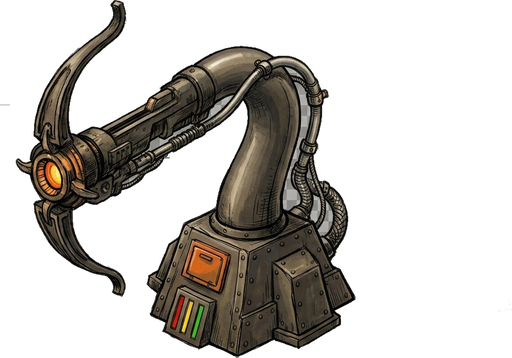
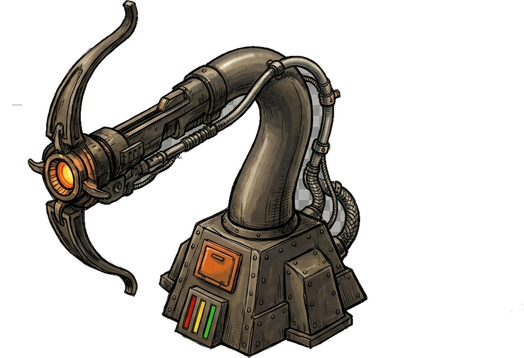
Make the turret a charging laser; halve size; centre the base
Gameplay/feel changes to the Laser Turret:
- Fires a hitscan LASER beam instead of a homing bolt.
- Charges for 1.5s before each shot, shown by a growing glow at the muzzle
  (charge bleeds back down if it loses the target). Stronger per hit (50 dmg)
  to suit the slower cadence.
- Half the on-screen size (artHeight 150 -> 75).
- Base is now exactly centred on the tile: the art was re-padded so the base
  sits at originX 0.5, and the muzzle is stored as size-fractions so it tracks
  the barrel tip at any scale.

Implementation:
- towers.js: weapon/chargeTime/damage/laserColor + art origin/muzzle data.
- Tower entity: charge model with growing muzzle glow, target-facing flip, and
  muzzle-anchored firing; recoil now scales relative to the art's base scale.
- GameScene: weapon routing + a hitscan laser that applies damage immediately
  and draws a beam. The beam is rendered as stretched additive SPRITES (a
  white-hot core + coloured glow), NOT runtime Graphics — Graphics lines drop
  out of the WebGL batch when a particle emitter is created the same frame.
- textures.js: generate a reusable 'laser-beam' strip texture.
- AudioManager: rising charge hum + sharp beam discharge cues.

Verified served over HTTP: charge glow builds, beams fire and render in
gameplay (10 fired in a run), damage applies, and the full win/lose loop
still passes with no console errors.

Changed region(s): [[0.0312, 0.0, 0.7188, 1.0], [0.0, 0.2765, 0.0312, 0.3073]]

diff --git a/src/entities/Tower.js b/src/entities/Tower.js
@@ -1,15 +1,18 @@
 // ---------------------------------------------------------------------------
-// Tower entity. Sits on a grid cell, acquires the nearest in-range enemy and
-// fires projectiles on a cooldown. Targeting is delegated to TargetingSystem so
-// the selection policy can evolve independently of the entity.
+// Tower entity. Sits on a grid cell, acquires the best in-range enemy and
+// fires on a cadence. Targeting is delegated to TargetingSystem.
 //
-// Rendering is data-driven: a tower's `textureKey` is whatever the data points
-// at (a generated placeholder, or a real PNG). Optional art fields in the data
-// (artHeight / originX / originY / facing / muzzle) control how that texture is
-// scaled, anchored and aimed — so dropping in new drawings needs no code here.
+// Two firing models, chosen by data:
+//   - charge (def.chargeTime): builds a growing muzzle glow over chargeTime ms,
+//     then fires (used by the laser turret). Charge decays if no target.
+//   - instant (def.fireRate): classic cooldown firing.
 //
-// fire() pushes a Projectile into the scene's projectile array (passed in via
-// the firing callback) so the scene stays the single owner of entity lists.
+// The tower doesn't know laser vs projectile — it just calls the `fire`
+// callback with (def, muzzleX, muzzleY, target); the scene routes it to the
+// right weapon and stays the owner of all entities.
+//
+// Rendering is data-driven (textureKey / artHeight / origin / facing / muzzle),
+// so new drawings drop in without code changes.
 // ---------------------------------------------------------------------------
 
 import { DEPTH } from '../data/game.js';
@@ -24,12 +27,15 @@ export class Tower extends Phaser.GameObjects.Container {
     this.cell = cell;
     this.rangePx = rangePx;
     this.cooldown = 0;
+    this.charge = 0;
+    this.faceRight = false;
+    this.glow = null;
     this.defaultLeft = (def.facing ?? 'left') === 'left';
 
     this.sprite = scene.add.sprite(0, 0, def.textureKey);
     this.sprite.setOrigin(def.originX ?? 0.5, def.originY ?? 0.92);
 
-    // Scale real art to a target on-screen height (placeholders stay at 1:1).
+    // Scale real art to a target on-screen height (placeholders stay 1:1).
     this.baseScale = def.artHeight ? def.artHeight / this.sprite.height : 1;
     this.sprite.setScale(this.baseScale);
     this.add(this.sprite);
@@ -51,51 +57,117 @@ export class Tower extends Phaser.GameObjects.Container {
     });
   }
 
-  // Visual recoil (relative to base scale) + a muzzle flash at the barrel tip.
-  playFireFx(muzzleX, muzzleY) {
+  // World position of the barrel tip, mirrored to the side we're facing.
+  muzzlePosition(faceRight) {
+    const m = this.def.muzzle;
+    let mx, my;
+    if (m && m.xFrac != null) {
+      mx = m.xFrac * this.sprite.displayWidth;
+      my = m.yFrac * this.sprite.displayHeight;
+    } else if (m) {
+      mx = m.x; my = m.y;
+    } else {
+      mx = 0; my = this.sprite.displayHeight * 0.55;
+    }
+    return { x: this.x + (faceRight ? mx : -mx), y: this.y - my };
+  }
+
+  aimAt(target) {
+    this.faceRight = target.x > this.x;
+    this.sprite.setFlipX(this.defaultLeft ? this.faceRight : !this.faceRight);
+  }
+
+  update(delta, enemies, fire, audio) {
+    if (this.def.chargeTime) this.updateCharge(delta, enemies, fire, audio);
+    else this.updateInstant(delta, enemies, fire, audio);
+  }
+
+  // --- charge model (laser) ---------------------------------------------
+  updateCharge(delta, enemies, fire, audio) {
+    const target = selectTarget(this, enemies, this.rangePx);
+    if (target) {
+      this.aimAt(target);
+      if (this.charge <= 0 && audio) audio.charge();
+      this.charge += delta;
+      this.updateGlow();
+      if (this.charge >= this.def.chargeTime) {
+        const m = this.muzzlePosition(this.faceRight);
+        fire(this.def, m.x, m.y, target);
+        this.fireFlash(m.x, m.y);
+        this.charge = 0;
+        this.hideGlow();
+      }
+    } else if (this.charge > 0) {
+      // Lost the target mid-charge: bleed the charge back down.
+      this.charge = Math.max(0, this.charge - delta * 2);
+      if (this.charge <= 0) this.hideGlow();
+      else this.updateGlow();
+    }
+  }
+
+  // --- instant model (classic cooldown) ---------------------------------
+  updateInstant(delta, enemies, fire, audio) {
+    this.cooldown -= delta;
+    if (this.cooldown > 0) return;
+    const target = selectTarget(this, enemies, this.rangePx);
+    if (!target) return;
+    this.cooldown = this.def.fireRate;
+    this.aimAt(target);
+    const m = this.muzzlePosition(this.faceRight);
+    fire(this.def, m.x, m.y, target);
+    this.fireFlash(m.x, m.y);
+    if (audio) audio.shoot();
+  }
+
+  // --- muzzle glow (charge feedback) ------------------------------------
+  ensureGlow() {
+    if (!this.glow) {
+      this.glow = this.scene.add.sprite(this.x, this.y, 'spark');
+      this.glow.setBlendMode(Phaser.BlendModes.ADD);
+      this.glow.setTint(this.def.laserColor ?? this.def.accent);
+      this.glow.setDepth(this.depth + DEPTH.effectBias);
+    }
+    this.glow.setVisible(true);
+  }
+
+  updateGlow() {
+    this.ensureGlow();
+    const m = this.muzzlePosition(this.faceRight);
+    const p = Phaser.Math.Clamp(this.charge / this.def.chargeTime, 0, 1);
+    this.glow.setPosition(m.x, m.y);
+    this.glow.setScale(0.3 + p * 2.1);
+    this.glow.setAlpha(0.2 + p * 0.8);
+    this.glow.angle += 5; // subtle shimmer
+  }
+
+  hideGlow() {
+    if (this.glow) this.glow.setVisible(false);
+  }
+
+  // Recoil + a bright flash at the muzzle when the shot goes off.
+  fireFlash(x, y) {
     this.scene.tweens.add({
       targets: this.sprite,
       scaleX: this.baseScale * 0.9,
       scaleY: this.baseScale * 1.08,
-      duration: 60,
+      duration: 70,
       yoyo: true,
       ease: 'Quad.easeOut',
     });
-    const flash = this.scene.add.sprite(muzzleX, muzzleY, 'spark');
-    flash.setTint(this.def.accent);
+    const flash = this.scene.add.sprite(x, y, 'spark');
+    flash.setTint(this.def.laserColor ?? this.def.accent);
     flash.setBlendMode(Phaser.BlendModes.ADD);
     flash.setDepth(this.depth + DEPTH.effectBias);
     this.scene.tweens.add({
       targets: flash,
-      scale: { from: 1.8, to: 0 },
-      duration: 150,
+      scale: { from: 3, to: 0 },
+      duration: 180,
       onComplete: () => flash.destroy(),
     });
   }
 
-  // World position of the barrel tip, mirrored to whichever side we're facing.
-  muzzlePosition(faceRight) {
-    const mx = this.def.muzzle?.x ?? 0;
-    const my = this.def.muzzle?.y ?? this.sprite.displayHeight * 0.55;
-    return { x: this.x + (faceRight ? mx : -mx), y: this.y - my };
-  }
-
-  update(delta, enemies, fireProjectile, audio) {
-    this.cooldown -= delta;
-    if (this.cooldown > 0) return;
-
-    const target = selectTarget(this, enemies, this.rangePx);
-    if (!target) return;
-
-    this.cooldown = this.def.fireRate;
-
-    // Aim: flip the sprite so the barrel points at the target.
-    const faceRight = target.x > this.x;
-    this.sprite.setFlipX(this.defaultLeft ? faceRight : !faceRight);
-
-    const muzzle = this.muzzlePosition(faceRight);
-    fireProjectile(this.def, muzzle.x, muzzle.y, target);
-    this.playFireFx(muzzle.x, muzzle.y);
-    if (audio) audio.shoot();
+  destroy(fromScene) {
+    if (this.glow) { this.glow.destroy(); this.glow = null; }
+    super.destroy(fromScene);
   }
 }

diff --git a/src/scenes/GameScene.js b/src/scenes/GameScene.js
@@ -226,11 +226,58 @@ export class GameScene extends Phaser.Scene {
     this.enemies.push(enemy);
   }
 
-  // --------------------------------------------------------- projectiles ----
+  // ------------------------------------------------------------- weapons ----
+
+  // Route a tower's shot to the right weapon (the tower is weapon-agnostic).
+  fireWeapon(def, x, y, target) {
+    if (def.weapon === 'laser') this.fireLaser(def, x, y, target);
+    else this.fireProjectile(def, x, y, target);
+  }
 
   fireProjectile(def, x, y, target) {
     const proj = new Projectile(this, x, y, def, target, this.audio);
     this.projectiles.push(proj);
+  }
+
+  // Hitscan laser: damage is applied immediately and a beam is drawn from the
+  // muzzle to the target, then fades.
+  fireLaser(def, x, y, target) {
+    if (!target || !target.alive) return;
+    const tx = target.x;
+    const ty = target.y - (target.body ? target.body.displayHeight * 0.45 : 20);
+    this.drawLaserBeam(x, y, tx, ty, def);
+    target.takeDamage(def.damage, this.audio);
+    this.audio.laser();
+  }
+
+  drawLaserBeam(x1, y1, x2, y2, def) {
+    const color = def.laserColor ?? def.accent ?? 0xffffff;
+    const depth = DEPTH.entityBase + Math.max(y1, y2) + DEPTH.effectBias;
+    const mx = (x1 + x2) / 2;
+    const my = (y1 + y2) / 2;
+    const dist = Math.hypot(x2 - x1, y2 - y1);
+    const angle = Math.atan2(y2 - y1, x2 - x1);
+
+    // Stretched additive sprites: a coloured glow + a white-hot core.
+    const glow = this.add.image(mx, my, 'laser-beam')
+      .setRotation(angle).setTint(color).setBlendMode(Phaser.BlendModes.ADD).setDepth(depth);
+    glow.setDisplaySize(dist, 22);
+    const core = this.add.image(mx, my, 'laser-beam')
+      .setRotation(angle).setBlendMode(Phaser.BlendModes.ADD).setDepth(depth + 1);
+    core.setDisplaySize(dist, 6);
+    this.tweens.add({
+      targets: [glow, core], alpha: 0, duration: 190, ease: 'Quad.easeOut',
+      onComplete: () => { glow.destroy(); core.destroy(); },
+    });
+
+    const hit = this.add.particles(x2, y2, 'spark', {
+      speed: { min: 50, max: 160 }, angle: { min: 0, max: 360 },
+      scale: { start: 0.8, end: 0 }, lifespan: 240, quantity: 8,
+      tint: [color, 0xffffff], blendMode: 'ADD', emitting: false,
+    });
+    hit.setDepth(depth + 2);
+    hit.explode();
+    this.time.delayedCall(280, () => hit.destroy());
   }
 
   // ---------------------------------------------------------------- waves ----
@@ -311,7 +358,7 @@ export class GameScene extends Phaser.Scene {
 
     // Towers.
     for (const t of this.towers) {
-      t.update(delta, this.enemies, (def, x, y, target) => this.fireProjectile(def, x, y, target), this.audio);
+      t.update(delta, this.enemies, (def, x, y, target) => this.fireWeapon(def, x, y, target), this.audio);
     }
 
     // Projectiles.

diff --git a/src/data/towers.js b/src/data/towers.js
@@ -29,12 +29,21 @@
 export const TOWERS = {
   blaster: {
     id: 'blaster',
-    name: 'Blaster Bot',
+    name: 'Laser Turret',
     textureKey: 'tower-blaster',
     cost: 50,
     range: 2.7,
+
+    // Laser weapon: charges up, then fires an instant beam. Stronger per hit
+    // to justify the slower cadence.
+    weapon: 'laser',
+    chargeTime: 1500,   // ms of charge (with a growing muzzle glow) before firing
+    damage: 50,
+    laserColor: 0xff7a2a,
+
+    // Projectile fields are unused by the laser but kept so the placeholder
+    // bolt texture still generates cleanly for any future projectile tower.
     fireRate: 620,
-    damage: 18,
     projectileSpeed: 540,
     projectileKey: 'proj-bolt',
     color: 0x7fc7ff,
@@ -42,11 +51,11 @@ export const TOWERS = {
 
     // Real art (Max's first tower): a bow-cannon turret with a glowing muzzle.
     asset: 'assets/towers/blaster.png',
-    artHeight: 150,
-    originX: 0.49,
-    originY: 0.99,
+    artHeight: 75,      // half the original size
+    originX: 0.5,       // base is horizontally centred in the (re-padded) art
+    originY: 0.997,     // anchor at the base bottom so it sits on the tile
     facing: 'left',
-    muzzle: { x: 88, y: 84 },
+    muzzle: { xFrac: 0.3645, yFrac: 0.5182 }, // barrel tip, as fractions of size
   },
 };
 

diff --git a/src/rendering/textures.js b/src/rendering/textures.js
@@ -118,6 +118,25 @@ function makeBoltTexture(scene, key, color) {
   g.destroy();
 }
 
+// A horizontal beam strip: full-white with a soft vertical falloff, so it can
+// be stretched into a laser and tinted. (We render beams as stretched sprites
+// rather than runtime Graphics — Graphics lines can drop out of the WebGL batch
+// when a particle emitter is created in the same frame.)
+function makeBeamTexture(scene, key) {
+  const w = 16;
+  const h = 32;
+  const g = scene.make.graphics({ x: 0, y: 0, add: false });
+  const mid = (h - 1) / 2;
+  for (let y = 0; y < h; y++) {
+    const d = Math.abs(y - mid) / mid;       // 0 at centre -> 1 at edge
+    const a = Math.max(0, 1 - d * d);        // smooth falloff
+    g.fillStyle(0xffffff, a);
+    g.fillRect(0, y, w, 1);
+  }
+  g.generateTexture(key, w, h);
+  g.destroy();
+}
+
 // A tiny soft spark for particle bursts.
 function makeSparkTexture(scene, key) {
   const r = 6;
@@ -178,5 +197,6 @@ export function generatePlaceholderTextures(scene) {
   }
 
   makeSparkTexture(scene, 'spark');
+  makeBeamTexture(scene, 'laser-beam');
   makeBaseTexture(scene, 'base-core');
 }

diff --git a/src/audio/AudioManager.js b/src/audio/AudioManager.js
@@ -66,6 +66,17 @@ export class AudioManager {
     this.tone({ freq: 720, endFreq: 480, type: 'square', dur: 0.08, gain: 0.18 });
   }
 
+  // Rising "powering up" hum when a charge begins.
+  charge() {
+    this.tone({ freq: 160, endFreq: 520, type: 'sawtooth', dur: 0.5, gain: 0.12 });
+  }
+
+  // Sharp beam discharge.
+  laser() {
+    this.tone({ freq: 1400, endFreq: 320, type: 'sawtooth', dur: 0.16, gain: 0.22 });
+    this.tone({ freq: 2400, endFreq: 1200, type: 'sine', dur: 0.08, gain: 0.12 });
+  }
+
   hit() {
     this.tone({ freq: 320, endFreq: 200, type: 'triangle', dur: 0.06, gain: 0.2 });
   }